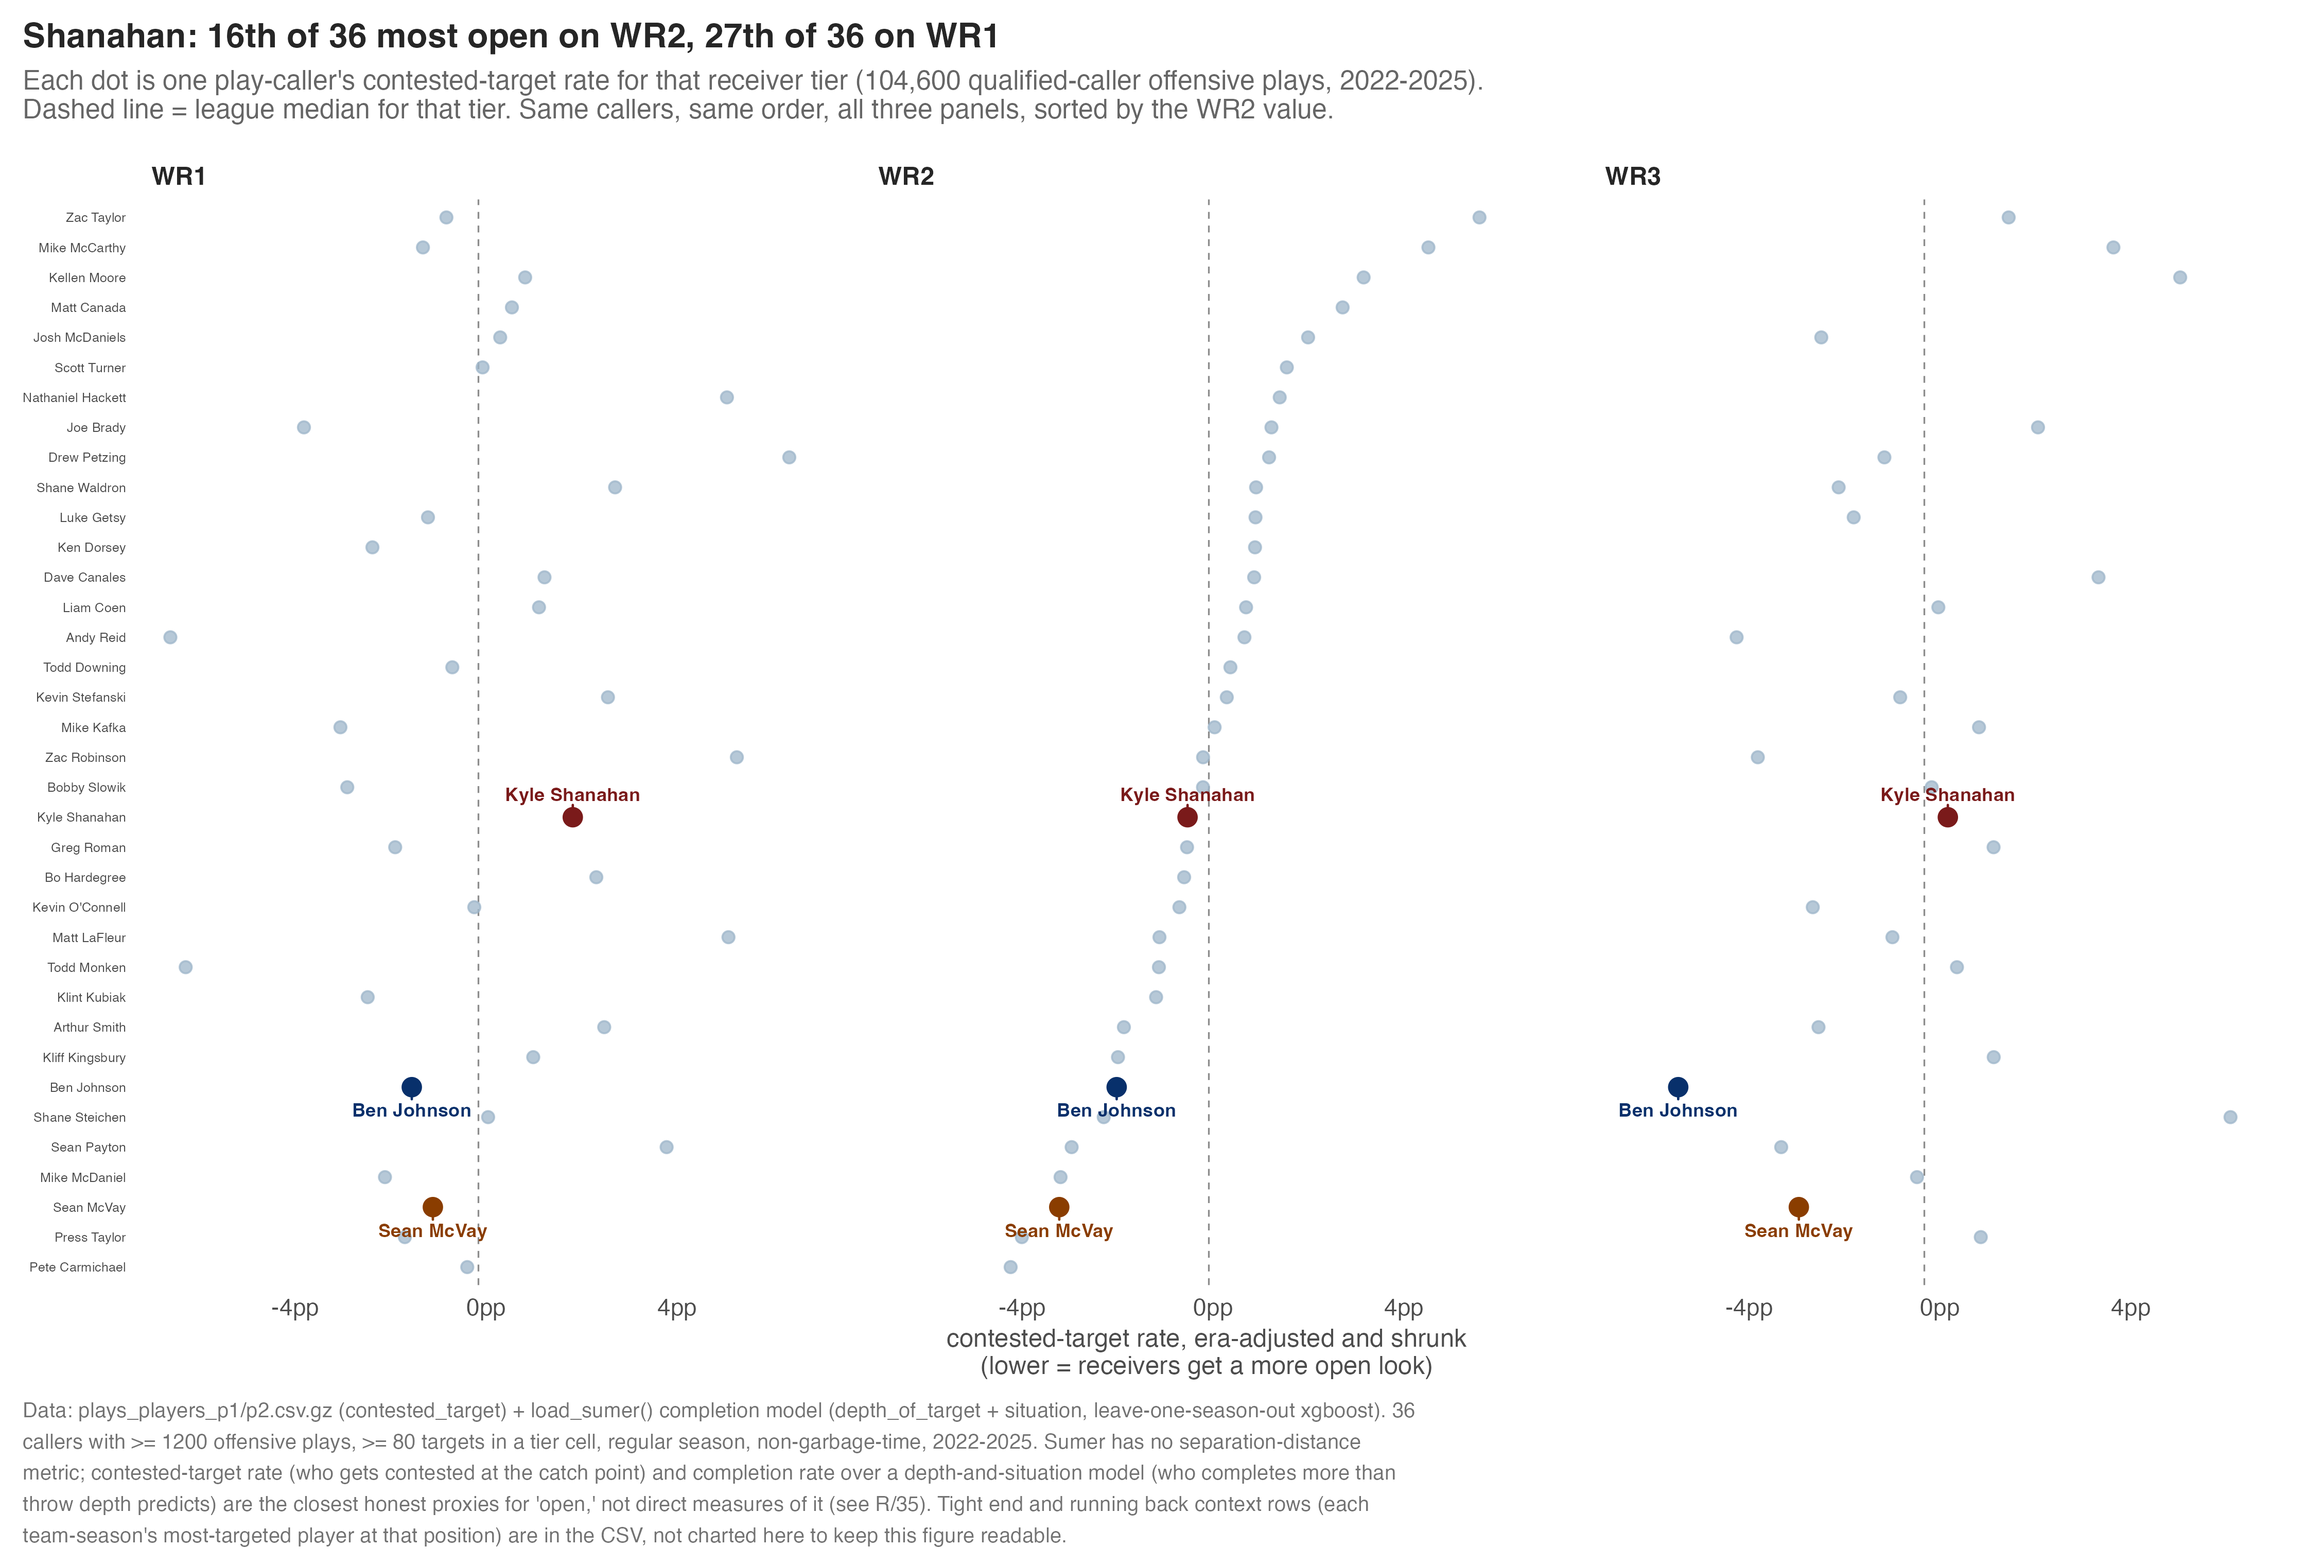
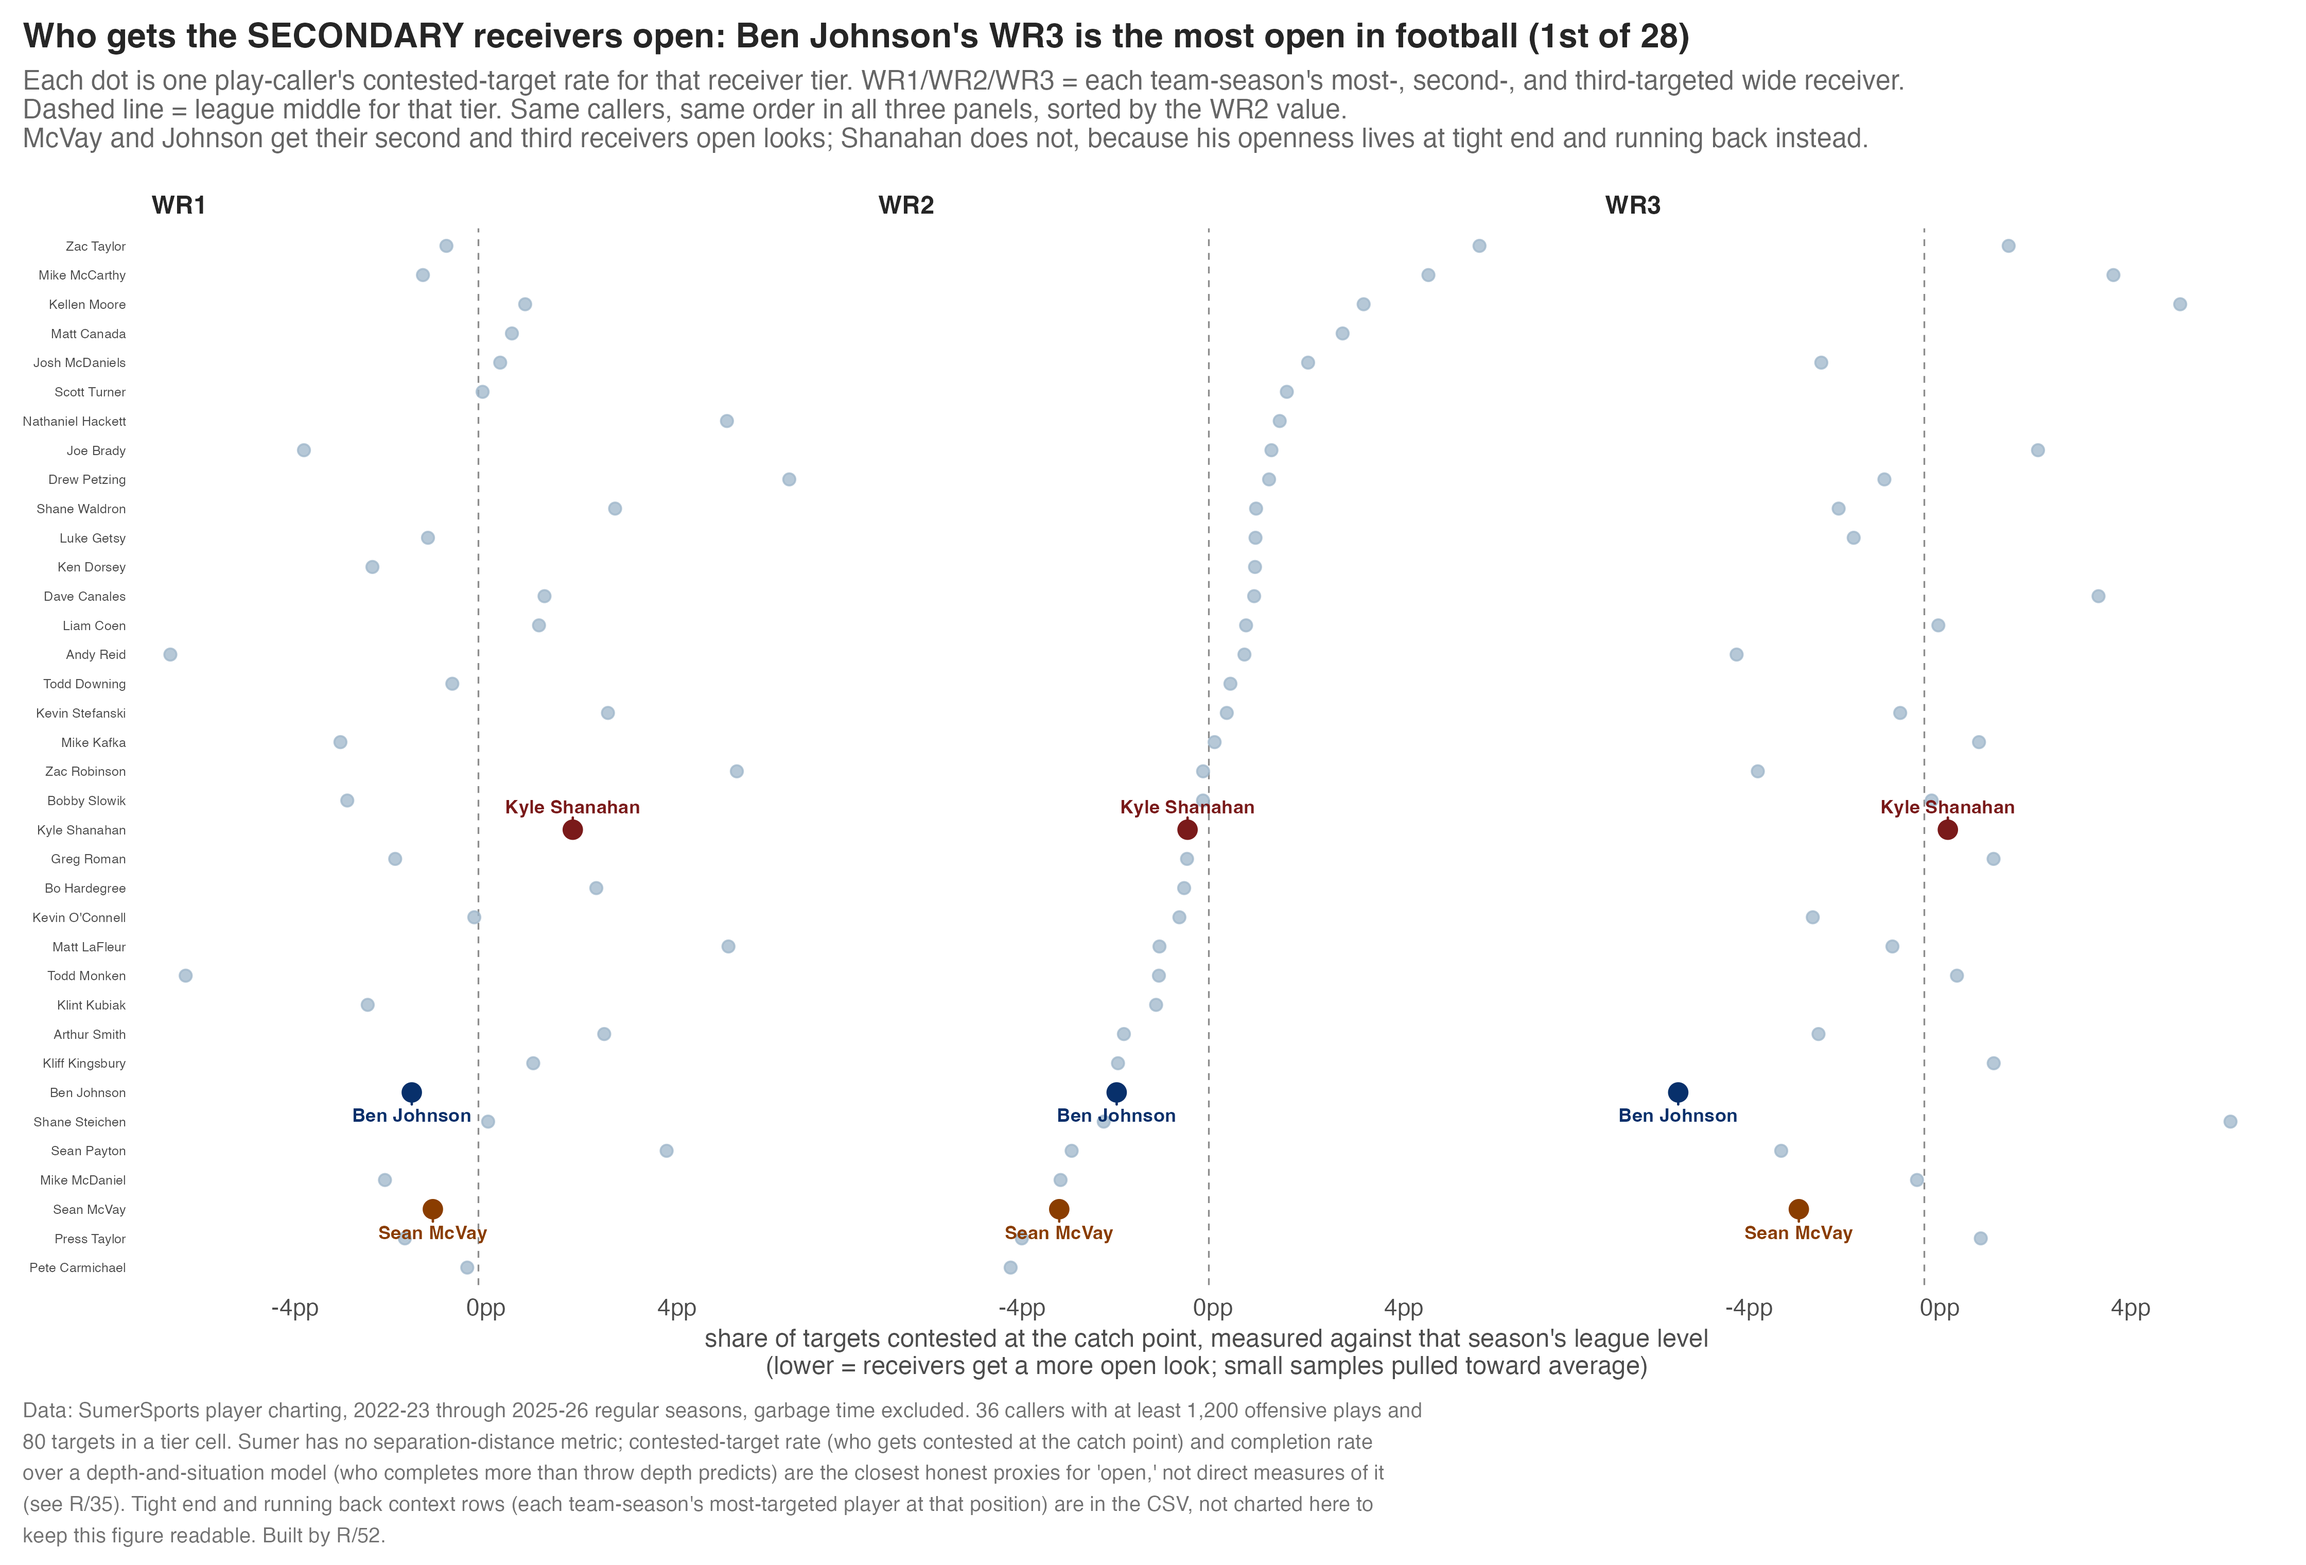
WR openness by tier (R/52): Johnson's WR3 most open in football; Shanahan's openness is TEs and backs

diff --git a/docs/index.html b/docs/index.html
@@ -169,6 +169,17 @@
       <p class="row"><span class="lab">The catch:</span> 25 targets and 89 off-field snaps are small samples and the chart says so; and the route-vs-block shares come straight from the play charting of what each player did, so a tight end who lines up to block and leaks out late still counts as a route.</p>
     </div>
 
+    <div class="card">
+      <div class="card-head"><span class="t">Open rate by receiver tier, per coach</span><span class="pill ship">The WR3 crown is Johnson's</span></div>
+      <p class="row"><span class="lab">Nick:</span> "can we look at open rate for WRs per coach? split by wr1, 2, 3 or diff wide receiver types"</p>
+      <p class="row found"><span class="lab">Split by tier, the scheme story lives with the secondary receivers, and it belongs to Ben Johnson.</span> Using the board's openness proxy (how often a target is contested at the catch point, against that season's league level): Johnson's third receiver is the most open in football, 1st of 28 qualified callers, with his WR2 top-10 too. McVay is right behind on both (WR2 3rd, WR3 5th) but with a twist the board has seen before: he generates the open looks without converting them into extra completions over what the throw depth predicts, and at tight end he is dead last on that conversion. And Shanahan, the man with the "guys are always wide open" reputation, is below the league middle on WR1 and WR2 openness by this measure; his openness lives at tight end (2nd of 36 in completions over expected) and running back (6th of 35), which is the Kittle and McCaffrey story again: he schemes mismatches for the big bodies and the backs, not separation for his second and third receivers.</p>
+      <figure>
+        <img src="figures/wr_open_by_tier.png" alt="Three panels of contested-target rate by caller for WR1, WR2, and WR3, Ben Johnson most open at WR3, McVay close behind on WR2 and WR3, Shanahan near the middle on all three.">
+        <figcaption>Openness by receiver tier, all qualified callers. Tight end and running back rows live in the CSV. Built by R/52.</figcaption>
+      </figure>
+      <p class="row"><span class="lab">The catch:</span> no charting source here measures actual separation, so this is the contested-at-the-catch-point proxy (the completion-over-expected proxy agrees at WR1 and WR2 but turns to noise at WR3 and is not charted); and tiers are target-based, so a team whose WR2 is hurt half the year blurs the line between tiers.</p>
+    </div>
+
     <div class="tgroup">
       <h3 id="afternoon-19">The afternoon texts, 19 August</h3>
       <p class="grouphint">Three from the same hour: a pistol memory, a mechanics question about the "tips run vs pass" axis, and the good one: players and coordinators saying McVay "makes 25 plays seem like 250." The last one got the one-graphic treatment.</p>

diff --git a/README.md b/README.md
@@ -103,6 +103,7 @@ the new work.
 | The scheme-space crown is Johnson's | 1st of 37 before contact, 50/50 split, spread across 19 players; channels correlate only r = 0.60 |
 | "25 plays seem like 250," composited | 5th-fewest pictures + personnel held 84% (1st) + 4th-most play variety inside stretches + largest interval-backed motion effect |
 | McVay's pistol experiment | 0% -> 7.7% (2023-24) -> 10.6% (2024-25), ~2x league both years, killed to 0.7% in 2025-26 |
+| WR openness by tier | Johnson's WR3 most open in football (1/28), WR2 top-10; McVay WR2 3rd/WR3 5th but converts poorly; Shanahan's openness is TE (#2) + RB (#6), not WRs |
 | Ferguson stretches 13p vertically | 18.6-yd avg target depth, 3.1x next Rams TE; 28% explosive; on/off +0.24 vs +0.15 (n=89, underpowered) |
 | Blocking-TE specialists barely exist | Saubert ran routes on 71% of pass snaps; 1 of 76 qualified TEs under a 60% route rate |
 | Sim pressure springs free rushers | standard 3.1% -> sim 8.5% (2.7x) -> blitz 17.1%; 41 of 41 DCs individually confirm; Macdonald's sim: 16.7%, volume rank 19 |
@@ -168,6 +169,7 @@ figures and derived CSVs.
 | `R/48_motion_when_held.R` | motion_when_held.png |
 | `R/49_sim_pressure.R` | sim_pressure.png |
 | `R/51_te_specialists.R` | te_specialists.png |
+| `R/52_wr_open_by_tier.R` | wr_open_by_tier.png |
 | `R/50_blitz_vs_free.R` | blitz_vs_free.png |
 
 ```sh
